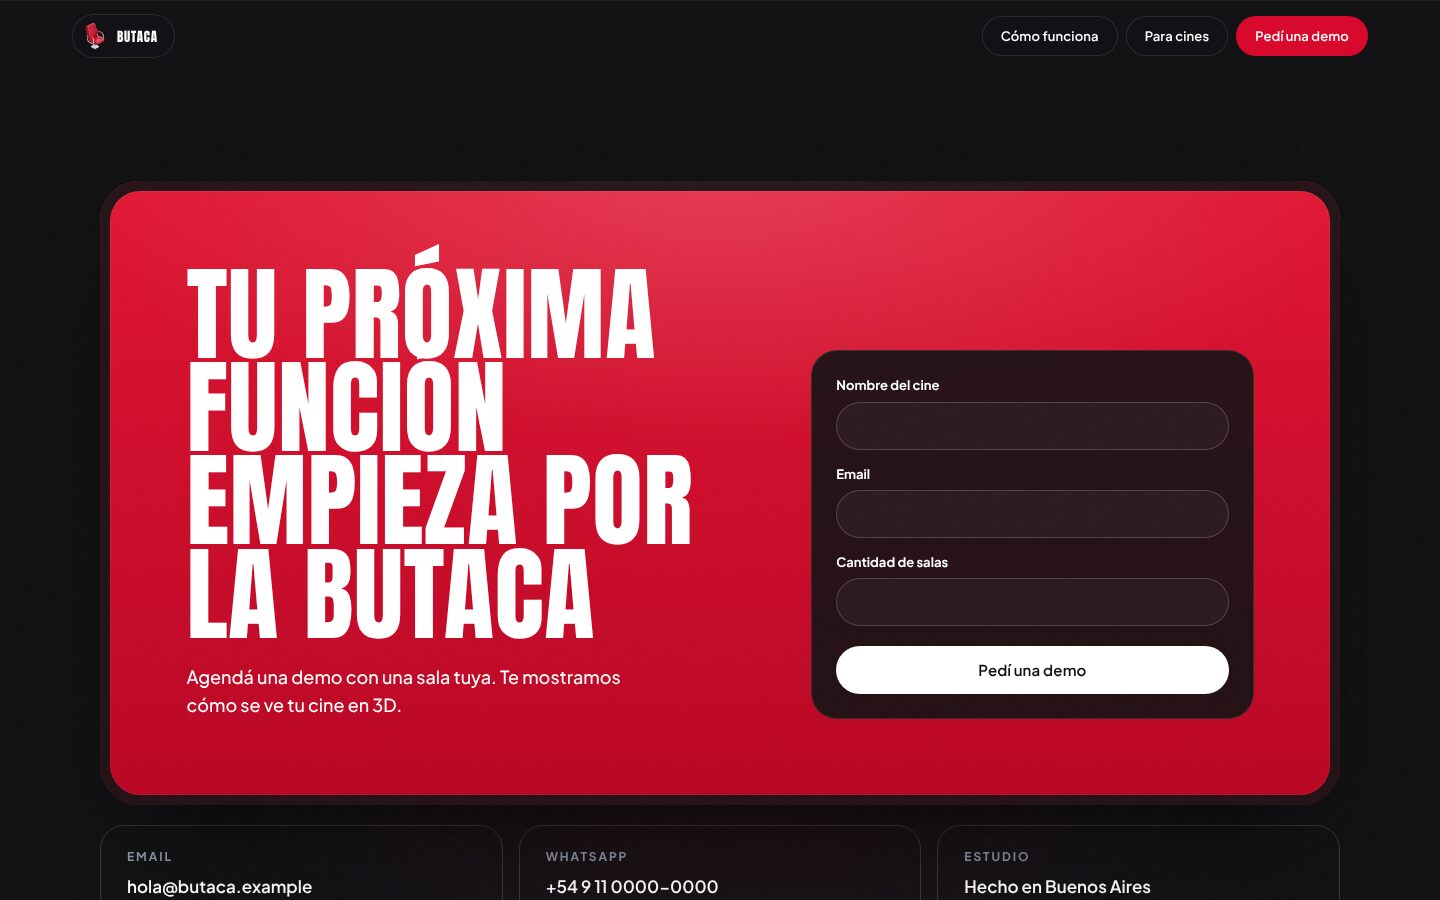
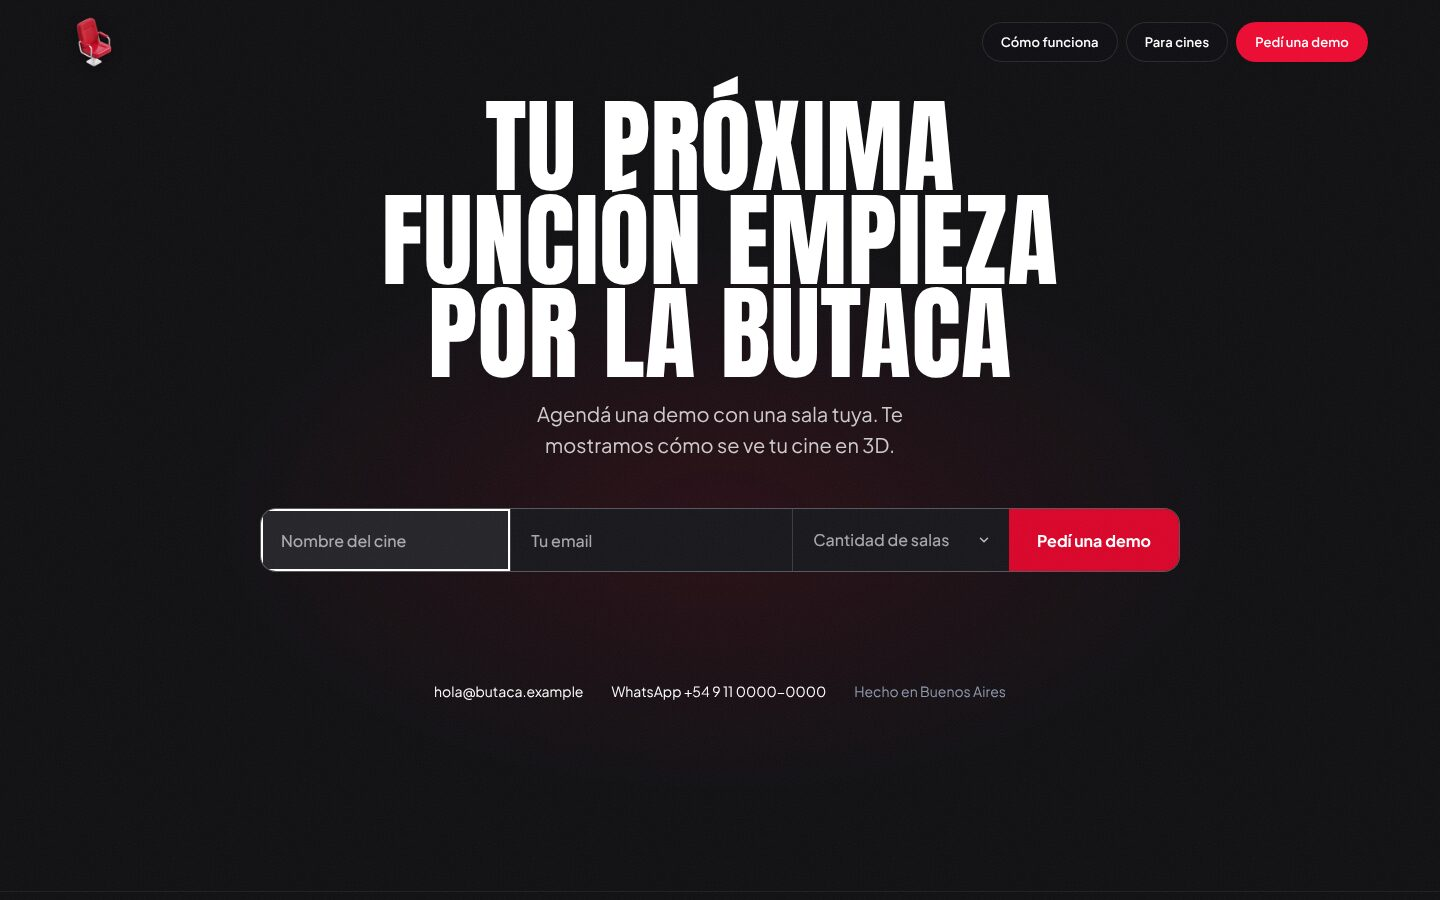
Demo request: minimal one-line form under the original headline
Centered headline and line, then a single bar (cine, email, salas,
'Pedí una demo'). Inline error line, confirmation in place, contact
details as a quiet row below. Replaces the red block and stacked form.

Claude-Session: https://claude.ai/code/session_01MN7WbNxdV5dMQKRJdDiPk1

diff --git a/css/styles.css b/css/styles.css
@@ -489,46 +489,50 @@ html.film-on .debug:not([hidden]) { display: block; position: absolute; inset: 0
 
 .c-tag { color: #ff6b81; } .c-attr { color: #b9c2d0; } .c-str { color: #ffffff; }
 
-/* CTA: a red block that echoes the hero screen; its light spills into the room like the lobby floor */
-.section--cta { background: radial-gradient(55% 45% at 50% 58%, rgba(217, 4, 41, .13), transparent 70%), var(--bg); }
-.cta {
-  position: relative; overflow: hidden; border-radius: 40px; padding: clamp(32px, 6vw, 88px);
-  background:
-    radial-gradient(90% 70% at 50% 0%, rgba(255, 255, 255, .16), transparent 60%),
-    linear-gradient(180deg, #E0122F, #B80322);
-  box-shadow: 0 50px 90px -40px rgba(0, 0, 0, .85), inset 0 0 0 10px rgba(15, 15, 18, .9), inset 0 0 0 11px rgba(255, 255, 255, .06);
-  display: grid; grid-template-columns: 1.25fr 1fr; gap: clamp(28px, 5vw, 72px); align-items: end;
-}
-.cta__title { font-size: clamp(52px, 7.2vw, 116px); }
-.cta__sub { margin-top: 22px; font-size: 18px; font-weight: 500; max-width: 34ch; }
-.form {
-  display: grid; gap: 14px; padding: 24px; border-radius: 26px;
-  background: rgba(15, 15, 18, .9); border: 1px solid rgba(255, 255, 255, .1);
-}
-.field { display: grid; gap: 6px; }
-.field label { font-size: 13px; font-weight: 700; }
-.field input {
-  min-height: 48px; padding: 0 18px; border-radius: 999px; border: 1px solid rgba(255, 255, 255, .18);
-  background: rgba(255, 255, 255, .04); color: var(--white); font: 500 16px var(--sans);
-  transition: border-color .2s, background-color .2s;
-}
-.field input:hover { border-color: rgba(255, 255, 255, .35); }
-.field input:focus-visible { outline: 2px solid var(--white); outline-offset: 2px; border-color: var(--white); }
-.field input[aria-invalid="true"] { border-color: #ff6b81; }
-.field__err { min-height: 0; font-size: 13px; color: #ff8fa0; }
-.field__err:empty { display: none; }
-.form .btn { margin-top: 6px; width: 100%; }
-.form__ok:empty { display: none; }
-.form__ok { font-weight: 600; padding: 14px 16px; border-radius: 16px; background: rgba(255, 255, 255, .06); }
-.form.is-sent .field, .form.is-sent .btn { display: none; }
+/* Hablemos: minimal. One headline, one line, one bar. */
+.section--talk { background: radial-gradient(50% 40% at 50% 62%, rgba(217, 4, 41, .12), transparent 70%), var(--bg); }
+.talk { display: flex; flex-direction: column; align-items: center; text-align: center; min-height: clamp(460px, calc(100svh - 280px), 640px); justify-content: center; }
+.talk__title { max-width: 15ch; font-size: clamp(52px, 7.2vw, 116px); text-wrap: balance; }
+.talk__sub { max-width: 44ch; margin-top: 18px; font-size: clamp(17px, 1.4vw, 20px); color: rgba(255, 255, 255, .78); text-wrap: balance; }
 
-.contact { display: grid; grid-template-columns: repeat(3, 1fr); gap: 16px; margin-top: 20px; }
-.contact__cell {
-  display: grid; gap: 6px; padding: 22px 26px; border-radius: 24px; border: 1px solid rgba(255, 255, 255, .16);
-  font-weight: 600;
+.bar {
+  display: grid; grid-template-columns: 1.15fr 1.3fr 1fr auto; width: min(920px, 100%); margin-top: clamp(32px, 4vw, 48px);
+  border: 1px solid rgba(255, 255, 255, .28); border-radius: 16px; background: #16161B; overflow: hidden; text-align: left;
 }
-.contact__cell a { text-decoration: none; }
-.contact__cell a:hover { text-decoration: underline; text-underline-offset: 4px; }
+.bar__field { position: relative; display: flex; }
+.bar__field + .bar__field { border-left: 1px solid rgba(255, 255, 255, .16); }
+.bar input, .bar select {
+  width: 100%; min-height: 62px; padding: 0 20px; border: 0; border-radius: 0; background: transparent; color: var(--white);
+  font: 500 16px var(--sans); appearance: none; -webkit-appearance: none; transition: background-color .2s;
+}
+.bar input::placeholder { color: rgba(255, 255, 255, .62); opacity: 1; }
+.bar select { cursor: pointer; padding-right: 44px; }
+.bar select:invalid { color: rgba(255, 255, 255, .62); }
+.bar select option { background: #16161B; color: var(--white); }
+.bar__chev { position: absolute; right: 18px; top: 50%; margin-top: -7px; color: rgba(255, 255, 255, .7); pointer-events: none; }
+.bar input:hover, .bar select:hover { background: rgba(255, 255, 255, .03); }
+.bar input:focus, .bar select:focus { outline: none; background: rgba(255, 255, 255, .06); }
+.bar input:focus-visible, .bar select:focus-visible { box-shadow: inset 0 0 0 2px var(--white); }
+.bar [aria-invalid="true"] { box-shadow: inset 0 -2px 0 0 var(--red-text); }
+.bar__go {
+  min-height: 62px; padding: 0 28px; border: 0; background: var(--red); color: var(--white); cursor: pointer;
+  font: 700 16px var(--sans); white-space: nowrap; transition: background-color .2s;
+}
+.bar__go:hover { background: #EC0A31; }
+.bar__go:active { background: #C40325; }
+.bar__go:focus-visible { outline: none; box-shadow: inset 0 0 0 2px var(--white); }
+.bar__msg { min-height: 1.5em; margin-top: 14px; font-size: 15px; font-weight: 600; color: var(--red-text); }
+.talk.is-sent .bar, .talk.is-sent .bar__msg { display: none; }
+.talk__done { margin-top: clamp(32px, 4vw, 48px); display: grid; justify-items: center; gap: 8px; }
+.talk__done:focus { outline: none; }
+.talk__done[hidden] { display: none; }
+.talk__done-title { font-family: var(--display); font-size: clamp(36px, 4vw, 56px); line-height: .95; text-transform: uppercase; }
+.talk__done-txt { color: rgba(255, 255, 255, .78); }
+.talk__again { all: unset; cursor: pointer; margin-top: 8px; font-size: 14px; font-weight: 700; text-decoration: underline; text-underline-offset: 4px; }
+.talk__again:focus-visible { outline: 2px solid var(--white); outline-offset: 4px; border-radius: 4px; }
+.talk__contact { display: flex; flex-wrap: wrap; justify-content: center; gap: 8px 28px; margin-top: clamp(40px, 6vw, 72px); font-size: 14px; color: var(--gris); }
+.talk__contact a { color: var(--white); text-decoration: none; }
+.talk__contact a:hover { text-decoration: underline; }
 
 .footer { padding: 36px 0 max(36px, env(safe-area-inset-bottom)); border-top: 1px solid rgba(255, 255, 255, .06); font-size: 13px; color: var(--gris); }
 .footer__row { display: flex; align-items: center; gap: 24px; flex-wrap: wrap; }
@@ -539,14 +543,14 @@ html.film-on .debug:not([hidden]) { display: block; position: absolute; inset: 0
 .footer__copy { margin-left: auto; }
 
 @media (max-width: 980px) {
-  .contact { grid-template-columns: 1fr; }
   .flow { grid-template-columns: 1fr; }
   .flow__card { height: 420px; }
   .art-code code { font-size: 11.5px; white-space: pre-wrap; word-break: break-all; }
   .pilot__list li { flex-wrap: wrap; gap: 4px 16px; }
   .pilot__lead { display: none; }
   .pilot__lbl { flex: 1 1 100%; }
-  .cta { grid-template-columns: 1fr; border-radius: 30px; }
+  .bar { grid-template-columns: 1fr; }
+  .bar__field + .bar__field { border-left: 0; border-top: 1px solid rgba(255, 255, 255, .16); }
   .footer__copy { margin-left: 0; width: 100%; }
 }
 

diff --git a/index.html b/index.html
@@ -298,39 +298,47 @@
     </section>
 
     <!-- ===== 7. CTA FINAL ===== -->
-    <section class="section section--cta" id="demo" aria-labelledby="h-demo">
+    <section class="section section--talk" id="demo" aria-labelledby="h-demo">
       <div class="wrap">
-        <div class="cta">
-          <div class="cta__copy">
-            <h2 class="display cta__title" id="h-demo">Tu próxima función empieza por la butaca</h2>
-            <p class="cta__sub">Agendá una demo con una sala tuya. Te mostramos cómo se ve tu cine en 3D.</p>
-          </div>
-          <form class="form" novalidate>
-            <div class="field">
-              <label for="f-cine">Nombre del cine</label>
-              <input id="f-cine" name="cine" type="text" autocomplete="organization" required aria-describedby="e-cine">
-              <span class="field__err" id="e-cine" aria-live="polite"></span>
-            </div>
-            <div class="field">
-              <label for="f-email">Email</label>
-              <input id="f-email" name="email" type="email" autocomplete="email" inputmode="email" required aria-describedby="e-email">
-              <span class="field__err" id="e-email" aria-live="polite"></span>
-            </div>
-            <div class="field">
-              <label for="f-salas">Cantidad de salas</label>
-              <input id="f-salas" name="salas" type="number" inputmode="numeric" min="1" max="99" required aria-describedby="e-salas">
-              <span class="field__err" id="e-salas" aria-live="polite"></span>
-            </div>
-            <button class="btn btn--light" type="submit">Pedí una demo</button>
-            <p class="form__ok" role="status" aria-live="polite"></p>
-          </form>
-        </div>
+        <div class="talk">
+          <h2 class="display talk__title" id="h-demo">Tu próxima función empieza por la butaca</h2>
+          <p class="talk__sub">Agendá una demo con una sala tuya. Te mostramos cómo se ve tu cine en 3D.</p>
 
-        <ul class="contact">
-          <li class="contact__cell"><span class="micro">Email</span><a href="mailto:hola@butaca.example">hola@butaca.example</a></li>
-          <li class="contact__cell"><span class="micro">WhatsApp</span><a href="https://wa.me/5491100000000">+54 9 11 0000-0000</a></li>
-          <li class="contact__cell"><span class="micro">Estudio</span><span>Hecho en Buenos Aires</span></li>
-        </ul>
+          <form class="bar" novalidate data-talk>
+            <div class="bar__field">
+              <label class="sr-only" for="f-cine">Nombre del cine</label>
+              <input id="f-cine" name="cine" type="text" autocomplete="organization" placeholder="Nombre del cine" required>
+            </div>
+            <div class="bar__field">
+              <label class="sr-only" for="f-email">Email</label>
+              <input id="f-email" name="email" type="email" autocomplete="email" inputmode="email" placeholder="Tu email" required>
+            </div>
+            <div class="bar__field bar__field--select">
+              <label class="sr-only" for="f-salas">Cantidad de salas</label>
+              <select id="f-salas" name="salas" required>
+                <option value="" selected disabled>Cantidad de salas</option>
+                <option value="1 sala">1 sala</option>
+                <option value="2 a 4 salas">2 a 4 salas</option>
+                <option value="5 a 9 salas">5 a 9 salas</option>
+                <option value="10 o más salas">10 o más</option>
+              </select>
+              <svg class="bar__chev" viewBox="0 0 16 16" width="14" height="14" aria-hidden="true"><path d="M4 6l4 4 4-4" fill="none" stroke="currentColor" stroke-width="1.8" stroke-linecap="round" stroke-linejoin="round"/></svg>
+            </div>
+            <button class="bar__go" type="submit">Pedí una demo</button>
+          </form>
+          <p class="bar__msg" role="status" aria-live="polite" data-talk-msg></p>
+          <div class="talk__done" tabindex="-1" data-talk-done hidden>
+            <p class="talk__done-title" data-talk-done-title></p>
+            <p class="talk__done-txt" data-talk-done-txt></p>
+            <button class="talk__again" type="button" data-talk-again>Cambiar mis datos</button>
+          </div>
+
+          <ul class="talk__contact">
+            <li><a href="mailto:hola@butaca.example">hola@butaca.example</a></li>
+            <li><a href="https://wa.me/5491100000000">WhatsApp +54 9 11 0000-0000</a></li>
+            <li>Hecho en Buenos Aires</li>
+          </ul>
+        </div>
       </div>
     </section>
   </main>

diff --git a/js/main.js b/js/main.js
@@ -344,7 +344,7 @@
       if (!el) return;
       e.preventDefault();
       // Land section headings just under the fixed nav instead of at the section's padded top
-      const heading = id === '#top' ? null : el.querySelector('.section__title');
+      const heading = id === '#top' ? null : el.querySelector('.section__title, .talk__title');
       const target = heading || el;
       const offset = heading ? -(document.querySelector('.nav').offsetHeight + 16) : 0;
       if (lenis) lenis.scrollTo(id === '#top' ? 0 : target, { duration: 1.6, offset });
@@ -479,35 +479,53 @@
     cards.forEach((c) => io.observe(c));
   }
 
-  /* ---- Demo form (front-end only) ---- */
+  /* ---- Hablemos: one-line demo request (front-end only) ---- */
   function initForm() {
-    const form = document.querySelector('.form');
+    const form = document.querySelector('[data-talk]');
     if (!form) return;
-    const ok = form.querySelector('.form__ok');
+    const talk = form.closest('.talk');
+    const msg = talk.querySelector('[data-talk-msg]');
+    const done = talk.querySelector('[data-talk-done]');
+    const fields = [...form.querySelectorAll('input, select')];
     const rules = {
       cine: (v) => (v.trim().length >= 2 ? '' : 'Contanos el nombre de tu cine.'),
       email: (v) => (/^[^\s@]+@[^\s@]+\.[^\s@]{2,}$/.test(v.trim()) ? '' : 'Revisá el email, parece incompleto.'),
-      salas: (v) => { const n = Number(v); return Number.isInteger(n) && n >= 1 && n <= 99 ? '' : 'Poné un número de salas entre 1 y 99.'; },
+      salas: (v) => (v ? '' : 'Elegí cuántas salas tiene tu cine.'),
     };
-    const check = (input) => {
-      const msg = rules[input.name](input.value);
-      const err = document.getElementById(input.getAttribute('aria-describedby'));
-      input.setAttribute('aria-invalid', msg ? 'true' : 'false');
-      err.textContent = msg;
-      return !msg;
-    };
-    form.querySelectorAll('input').forEach((i) => i.addEventListener('blur', () => { if (i.value) check(i); }));
+    const errorOf = (f) => rules[f.name](f.value);
+    fields.forEach((f) => {
+      f.setAttribute('aria-describedby', 'talk-msg');
+      f.addEventListener(f.tagName === 'SELECT' ? 'change' : 'input', () => {
+        if (f.getAttribute('aria-invalid') === 'true' && !errorOf(f)) {
+          f.setAttribute('aria-invalid', 'false');
+          const next = fields.find((x) => x.getAttribute('aria-invalid') === 'true');
+          msg.textContent = next ? errorOf(next) : '';
+        }
+      });
+    });
+    msg.id = 'talk-msg';
+
     form.addEventListener('submit', (e) => {
       e.preventDefault();
-      const inputs = [...form.querySelectorAll('input')];
-      const results = inputs.map(check);
-      const firstBad = inputs[results.indexOf(false)];
-      if (firstBad) { firstBad.focus(); return; }
-      const cine = form.cine.value.trim();
-      form.classList.add('is-sent');
-      ok.textContent = `¡Listo! Recibimos el pedido de ${cine}. Te escribimos para coordinar la demo.`;
-      ok.setAttribute('tabindex', '-1');
-      ok.focus();
+      let first = null;
+      fields.forEach((f) => {
+        const bad = !!errorOf(f);
+        f.setAttribute('aria-invalid', String(bad));
+        if (bad && !first) first = f;
+      });
+      if (first) { msg.textContent = errorOf(first); first.focus(); return; }
+      msg.textContent = '';
+      const v = Object.fromEntries(fields.map((f) => [f.name, f.value.trim()]));
+      talk.querySelector('[data-talk-done-title]').textContent = `¡Listo, ${v.cine}!`;
+      talk.querySelector('[data-talk-done-txt]').textContent = `Te escribimos a ${v.email} para coordinar una demo (${v.salas}).`;
+      talk.classList.add('is-sent');
+      done.hidden = false;
+      done.focus();
+    });
+    talk.querySelector('[data-talk-again]').addEventListener('click', () => {
+      talk.classList.remove('is-sent');
+      done.hidden = true;
+      fields[0].focus();
     });
   }
 })();
